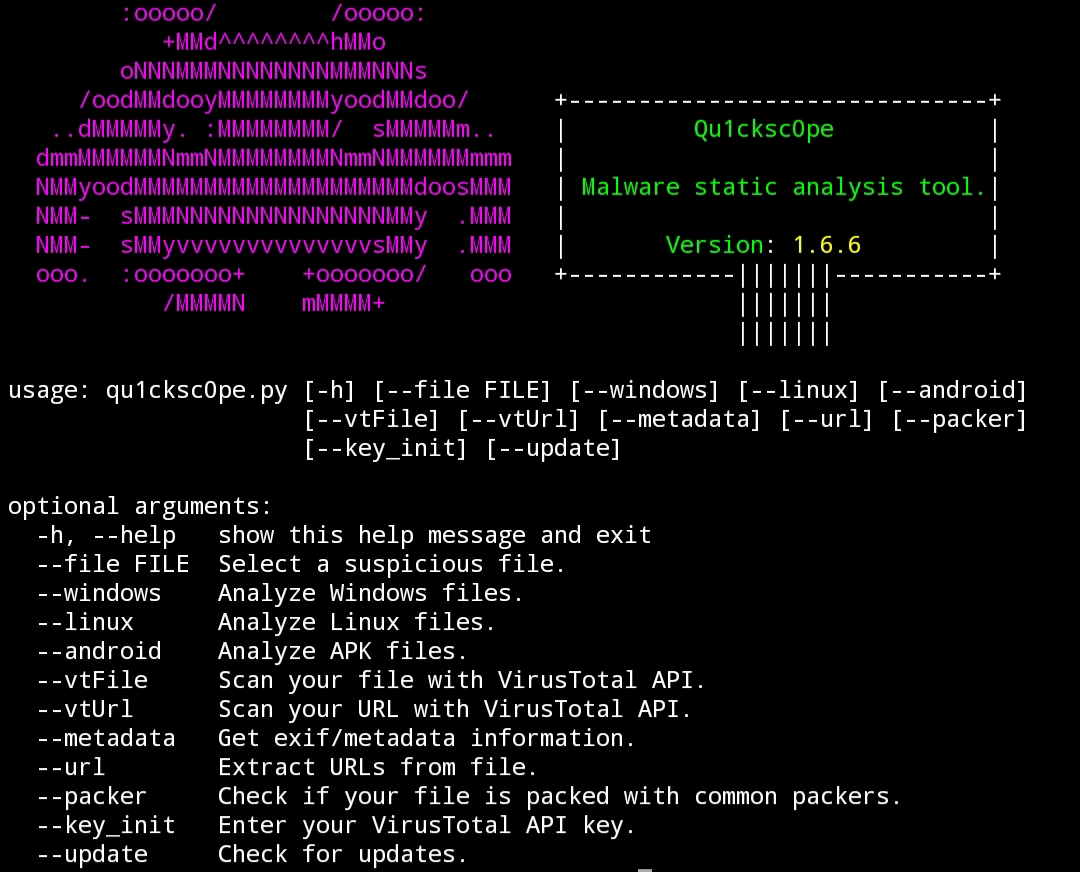
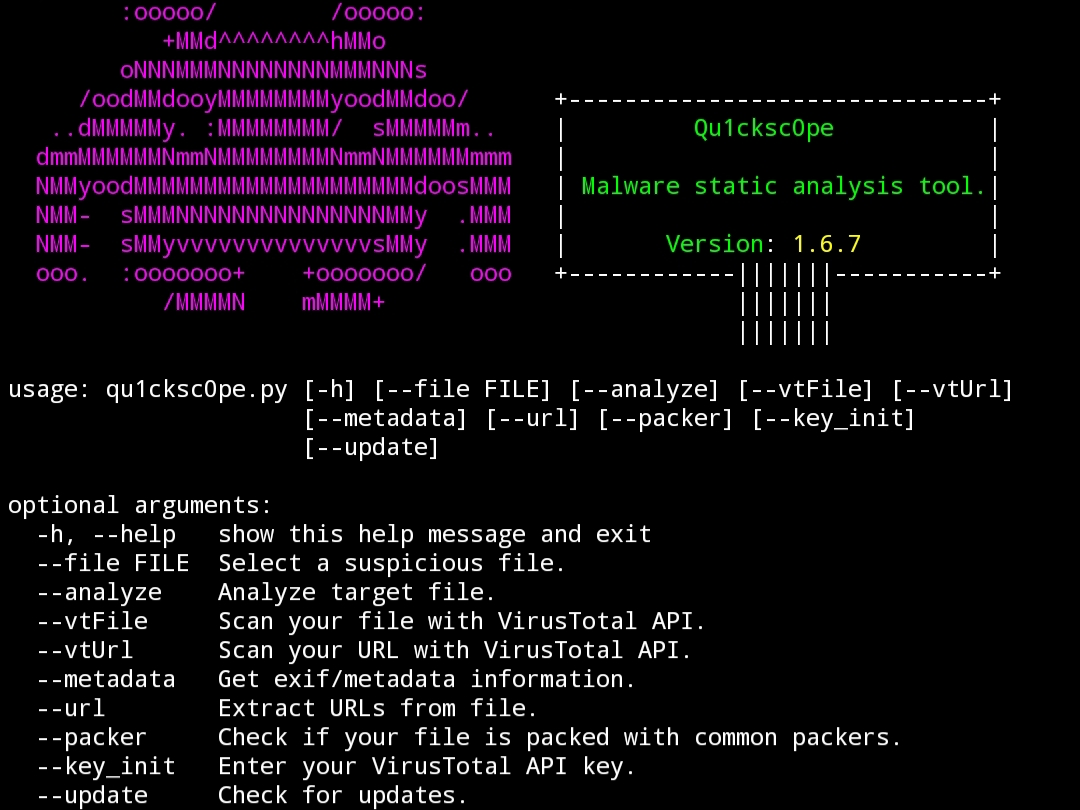
News 04/08/2020 11:47

diff --git a/qu1cksc0pe.py b/qu1cksc0pe.py
@@ -26,9 +26,7 @@ def scope():
     # Argument crating and parsing
     parser = argparse.ArgumentParser()
     parser.add_argument("--file",required=False,help="Select a suspicious file.")
-    parser.add_argument("--windows",required=False,help="Analyze Windows files.",action="store_true")
-    parser.add_argument("--linux",required=False,help="Analyze Linux files.",action="store_true")
-    parser.add_argument("--android",required=False,help="Analyze APK files.",action="store_true")
+    parser.add_argument("--analyze",required=False,help="Analyze target file.",action="store_true")
     parser.add_argument("--vtFile",required=False,help="Scan your file with VirusTotal API.",action="store_true")
     parser.add_argument("--vtUrl",required=False,help="Scan your URL with VirusTotal API.",action="store_true")
     parser.add_argument("--metadata",required=False,help="Get exif/metadata information.",action="store_true")
@@ -42,41 +40,29 @@ def scope():
     if args.file:
         command = "strings -a {} > temp.txt".format(args.file)
         os.system(command)
-            
-    # windows scan
-    if args.windows:
+    
+    # Analyze the target file
+    if args.analyze:
+        print("{}[{}*{}]{} Analyzing: {}{}{}".format(cyan,red,cyan,white,green,args.file,white))
         fileType = str(pr.magic_file(args.file))
-        if "Windows" in fileType:
-            print("{}[{}*{}]{} Analyzing: {}{}{}\n".format(cyan,red,cyan,white,green,args.file,white))
+        if "Windows Executable" in fileType:
+            print("{}[{}*{}]{} Target OS: {}Windows{}\n".format(cyan,red,cyan,white,green,white))
             command = "./Modules/winAnalyzer.py {}".format(args.file)
             os.system(command)
-        else:
-            print("{}[{}!{}]{} Please enter Windows files.".format(cyan,red,cyan,white))
-            sys.exit(1)
-        
-    # linux scan
-    if args.linux:
-        fileType = str(pr.magic_file(args.file))
-        if "ELF" in fileType:
-            print("{}[{}*{}]{} Analyzing: {}{}{}\n".format(cyan,red,cyan,white,green,args.file,white))
+        elif "ELF" in fileType:
+            print("{}[{}*{}]{} Target OS: {}Linux\n{}".format(cyan,red,cyan,white,green,white))
             command = "readelf -a {} > Modules/elves.txt".format(args.file)
             os.system(command)
             command = "./Modules/elfAnalyzer.py {}".format(args.file)
             os.system(command)
-        else:
-            print("{}[{}!{}]{} Please enter ELF executable files.".format(cyan,red,cyan,white))
-            sys.exit(1)
-
-    # Android scan
-    if args.android:
-        fileType = str(pr.magic_file(args.file))
-        if "PK" in fileType:
+        elif "PK" in fileType:
+            print("{}[{}*{}]{} Target OS: {}Android\n{}".format(cyan,red,cyan,white,green,white))
             command = "./Modules/apkAnalyzer.py {}".format(args.file)
-            print("{}[{}*{}]{} Analyzing: {}{}{}".format(cyan,red,cyan,white,green,args.file,white))
             os.system(command)
         else:
-            print("{}[{}!{}]{} Please enter APK files.".format(cyan,red,cyan,white))
-        
+            print("{}[{}!{}]{} Target OS could not detected. Make sure your file extension is Windows(exe),Linux(ELF) or Android(APK)".format(cyan,red,cyan,white))
+            sys.exit(1)
+
     # metadata
     if args.metadata:
         print("{}[{}+{}]{} Exif/Metadata information".format(cyan,red,cyan,white))

diff --git a/README.md b/README.md
@@ -7,15 +7,15 @@
 You can get used dll files, functions, sections, segments, urls, domains and permissions from your suspicious files.<br>
 Qu1cksc0pe aims to get even more information about suspicious files and helps to user realizing what that file capable of.
 
-- [x] Usage: ```python3 qu1cksc0pe.py --file suspicious_file --windows/--linux/--android```
-- [x] Alternative usage: ```python3 qu1cksc0pe.py --file [PATH TO FILE] --windows/--linux/--android```
+- [x] Usage: ```python3 qu1cksc0pe.py --file suspicious_file --analyze```
+- [x] Alternative usage: ```python3 qu1cksc0pe.py --file [PATH TO FILE] --analyze```
 
 # Screenshot
 ![Screen](.animations/.Screenshot.png)
 
 # Updates
-<b>03/08/2020</b>
-- [x] Added ```--update``` argument.
+<b>04/08/2020</b>
+- [x] Removed ```--windows```, ```--linux``` and ```--android```. Now Qu1cksc0pe will detect target OS itself.
 
 # Setup
 <b>Necessary python modules</b>: ```puremagic``` and ```androguard```<br>
